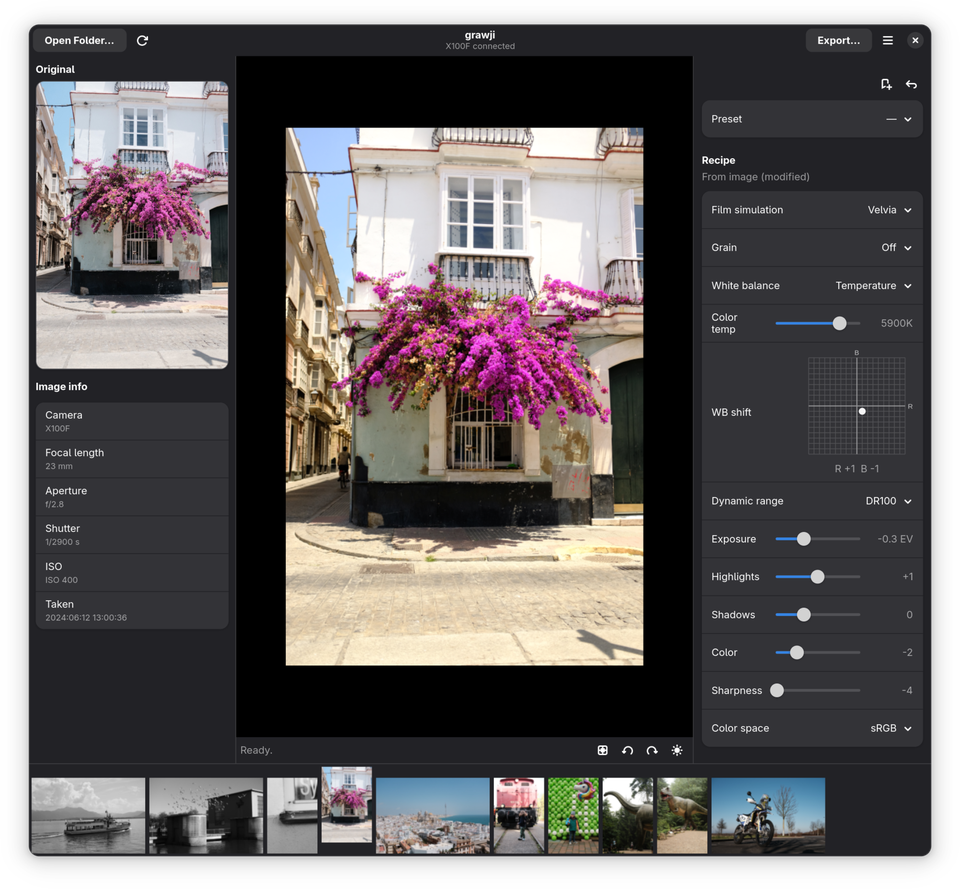
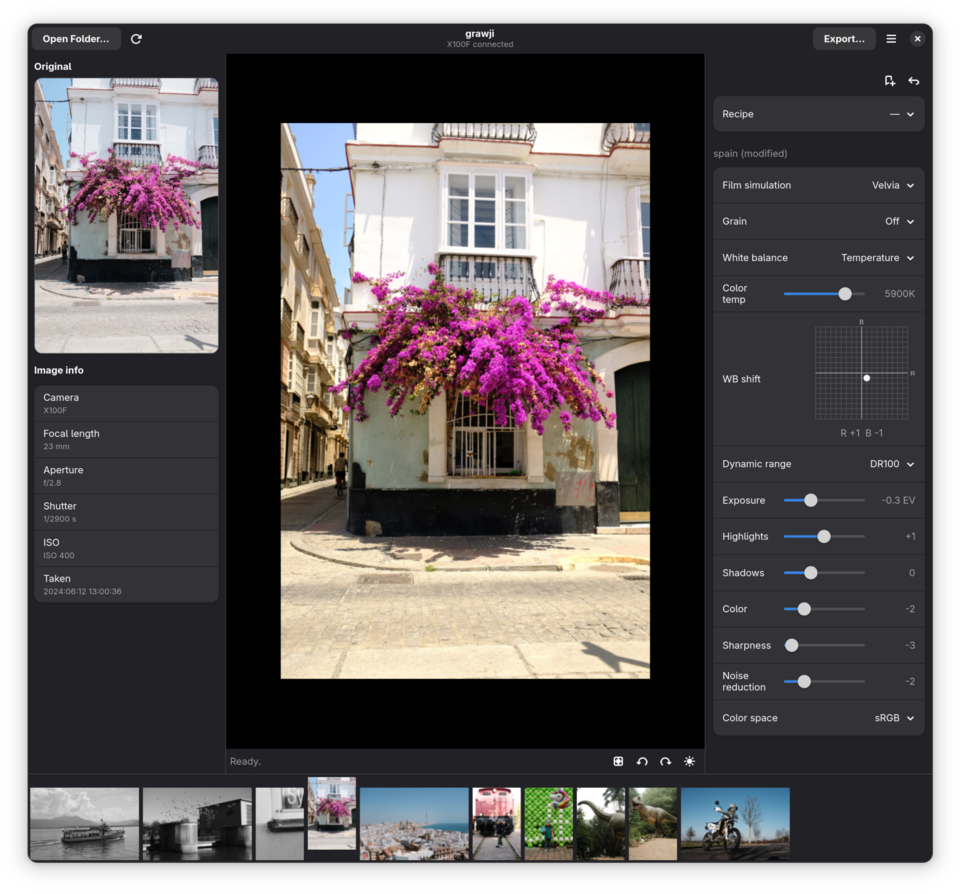
feat(flatpak): package grawji as a Flatpak

diff --git a/src/grawji/window.py b/src/grawji/window.py
@@ -25,7 +25,6 @@ from gi.repository import (  # noqa: E402
     Gtk,
 )
 from rawji.fuji_enums import (  # noqa: E402
-    FUJIFILM_CAMERA_PIDS,
     FUJIFILM_USB_VENDOR_ID,
     GrainEffect,
 )
@@ -118,9 +117,9 @@ _ROTATIONS = {
     270: GdkPixbuf.PixbufRotation.COUNTERCLOCKWISE,
 }
 
-# Which product ids count as a camera, and the vendor id, come from rawji
-# (FUJIFILM_CAMERA_PIDS / FUJIFILM_USB_VENDOR_ID) so the supported-body list
-# lives in one place: add a camera in rawji and grawji follows automatically.
+# Friendly names for known Fuji product ids. Detection accepts any device on
+# the Fuji vendor id (matching rawji's find_camera); this map only supplies a
+# nice label, falling back to the raw id for bodies not listed here.
 # todo: This map is cosmetic only, could be very well integrated in rawji.
 _PID_NAMES = {
     0x02D1: "X100F",
@@ -962,20 +961,21 @@ class MainWindow(Adw.ApplicationWindow):
 
     @staticmethod
     def _detect_camera() -> str | None:
-        """Return the connected Fuji camera's name, or None.
+        """Return the connected camera's label, or None if none is found.
 
-        A body counts as a camera only if rawji lists its product id, so
-        the supported-hardware set stays defined in rawji alone.
+        Mirrors rawji's find_camera, which connects to any Fujifilm-vendor
+        device, not only the product ids it lists. So any Fuji body is
+        reported here too: named from _PID_NAMES when its id is known, or
+        the generic "Camera" otherwise (e.g. an X70, or a body newer than
+        this list), since grawji works with it regardless.
         """
         try:
             device = usb.core.find(idVendor=FUJIFILM_USB_VENDOR_ID)
         except (usb.core.USBError, ValueError, OSError):
             return None
-        if device is None or device.idProduct not in FUJIFILM_CAMERA_PIDS:
+        if device is None:
             return None
-        return _PID_NAMES.get(
-            device.idProduct, f"Fuji 0x{device.idProduct:04X}"
-        )
+        return _PID_NAMES.get(device.idProduct, "Camera")
 
     def _rebuild_menu(self) -> None:
         """(Re)build the header menu model, including the recipe lists."""

diff --git a/src/grawji/__init__.py b/src/grawji/__init__.py
@@ -5,4 +5,9 @@ thin adapter and presents an interactive UI for tuning a recipe with a
 live preview, then exporting at full resolution.
 """
 
-__version__ = "0.1.0"
+from importlib.metadata import PackageNotFoundError, version
+
+try:
+    __version__ = version("grawji")
+except PackageNotFoundError:  # not installed (e.g. running from a raw tree)
+    __version__ = "0.0.0"

diff --git a/README.md b/README.md
@@ -52,8 +52,58 @@ time, and slider previews are debounced.
 
 ## Install
 
+Two ways to get grawji: the **[Flatpak](#flatpak-just-use-it)** (bundled, one
+command, for everyone) or **[from source](#from-source-native)**.
+
+Whichever you pick, the camera must be in the right USB mode first:
+
+> **Set Up** > **Connection Setting** > **USB Mode** >
+> **USB RAW CONV./BACKUP RESTORE**
+
+### Flatpak (just use it)
+
+The Flatpak bundles GTK4, libadwaita, the EXIF and USB stacks, rawji and
+grawji. The only thing it pulls from the network is the shared GNOME runtime.
+
+<details>
+<summary><b>Step-by-step</b></summary>
+
+**1. Make sure Flatpak and Flathub are set up**
+
+```sh
+flatpak remote-add --if-not-exists --user \
+  flathub https://flathub.org/repo/flathub.flatpakrepo
+```
+
+**2. Install grawji.** Download `grawji.flatpak` from the
+[Releases](https://github.com/p5k369/grawji/releases) page, then:
+
+```sh
+flatpak install --user grawji.flatpak
+```
+
+The first install also downloads the GNOME runtime (a few hundred MB, shared
+with other Flatpak apps and only fetched once).
+
+**3. Run it:**
+
+```sh
+flatpak run io.github.p5k369.grawji
+```
+
+
+</details>
+
+> Flathub submission is planned; once it lands, this becomes a single
+> `flatpak install flathub io.github.p5k369.grawji`.
+
+### From source (native)
+
 GTK4 and PyGObject come from your distribution, not pip. So: install the
 system packages, then `make install`.
+
+<details>
+<summary><b>Step-by-step</b></summary>
 
 **1. System packages.** GTK4, libadwaita, PyGObject, the GExiv2 EXIF reader,
 and the USB stack rawji uses. Package names vary by distro:
@@ -76,20 +126,13 @@ cd grawji
 make install
 ```
 
-**3. Set the camera's USB mode.** Before connecting, put the camera into RAW
-conversion mode, or it enumerates as a card reader and rawji cannot talk to
-it. On the camera:
-
-> **Set Up** > **Connection Setting** > **USB Mode** >
-> **USB RAW CONV./BACKUP RESTORE**
-
-Then connect it over USB. This is the same mode Fujifilm X RAW STUDIO uses.
-
-**4. Run:**
+**3. Run:**
 
 ```sh
 make run        # or: .venv/bin/python -m grawji
 ```
+
+</details>
 
 Open a folder of RAFs, pick one from the filmstrip, dial in a recipe, watch
 the preview update, then **Export**.
@@ -99,9 +142,9 @@ the preview update, then **Export**.
 > supported bodies are whatever rawji lists. To add yours, register its USB
 > product id in your rawji checkout and grawji picks it up automatically.
 
-> USB access: most distributions already grant non-root access to the camera
-> via `uaccess` or `plugdev`. If yours does not, add a udev rule for the Fuji
-> vendor id `0x04cb`. Check first before adding one.
+> USB access (native installs): most distributions already grant non-root
+> access to the camera via `uaccess` or `plugdev`. If yours does not, add a
+> udev rule for the Fuji vendor id `0x04cb`. Check first before adding one.
 
 ## Development
 
@@ -116,6 +159,12 @@ make dev RAWJI="-e ../rawji"
 `make lint` runs ruff + `mypy src tests`, `make format` formats, `make test`
 runs pytest (line length 79). `pygobject-stubs` (a dev dependency) gives the
 editor type hints for GTK and libadwaita.
+
+To build the Flatpak (needs `flatpak-builder` and the GNOME 50 runtime/SDK),
+`make flatpak` builds and installs it. `make flatpak-bundle` writes a
+single-file `grawji.flatpak`. The manifest is `flatpak/io.github.p5k369.grawji.yaml`.
+For a Flathub submission its pip dependencies must be pinned with
+flatpak-pip-generator and the `--share=network` build args dropped.
 
 ## Credits
 